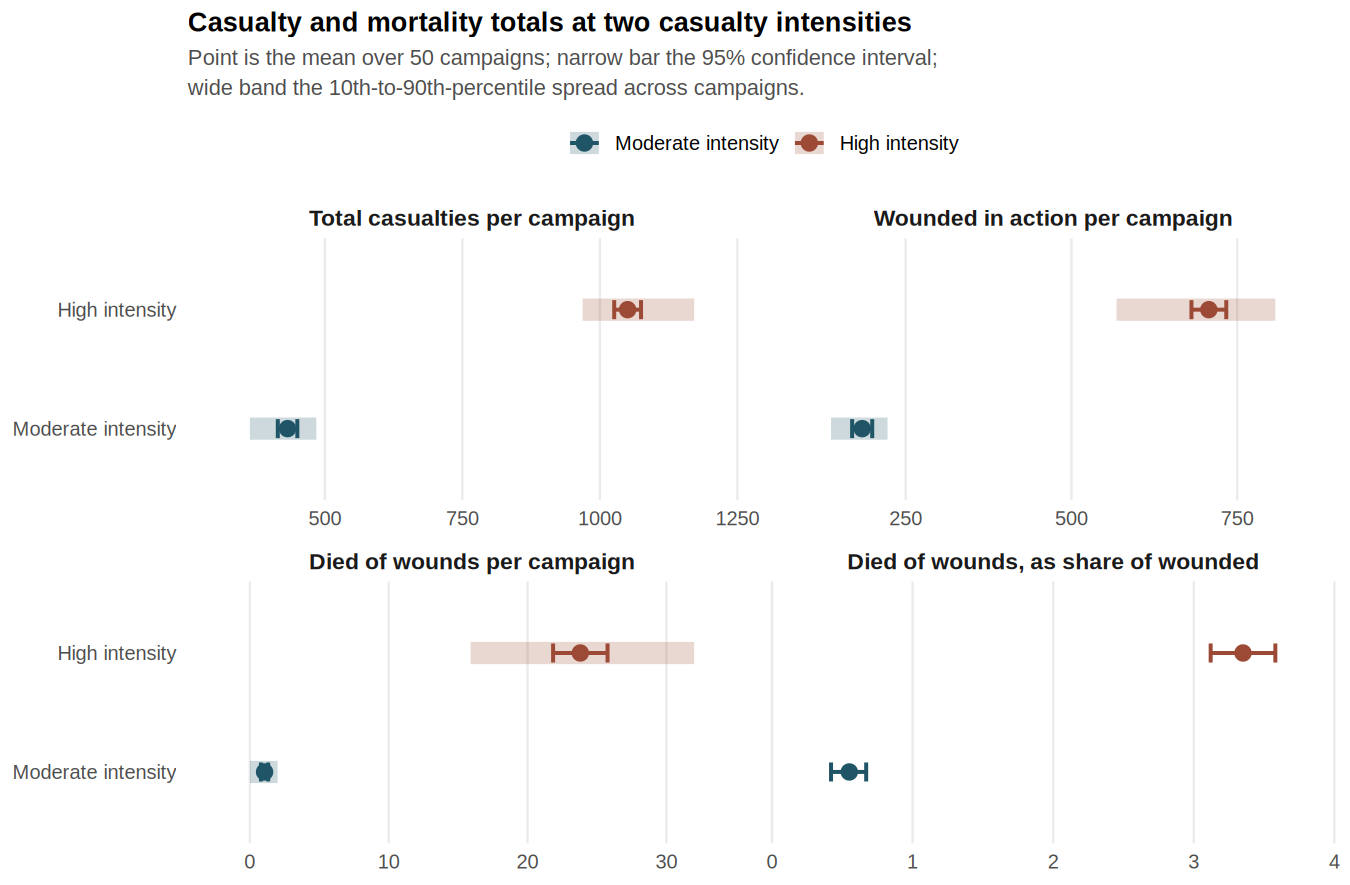
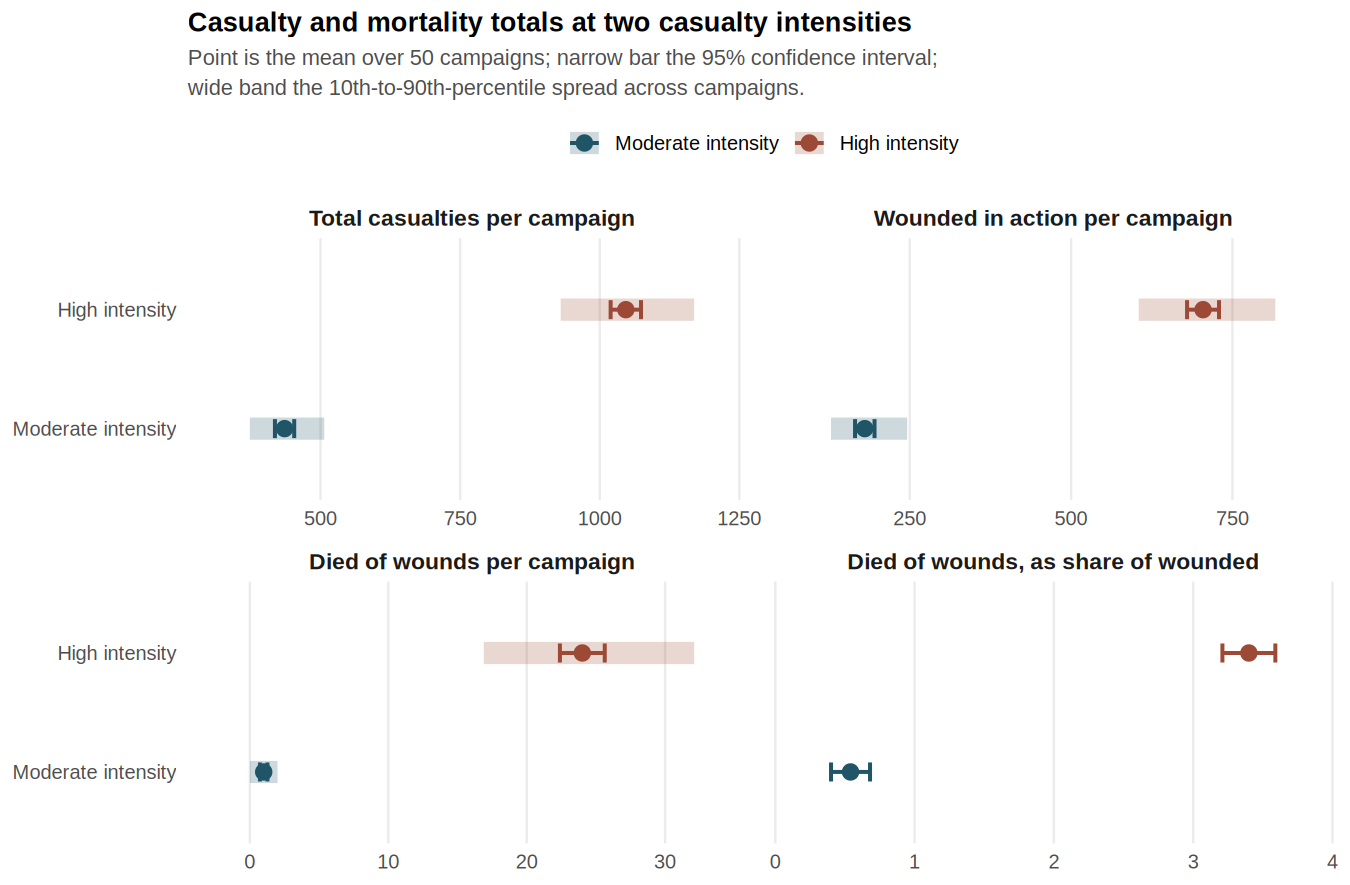
docs(issue-376): re-measure the time series and comparative scenario sections
The clearance percentages, the theatre queue trajectory and the comparative
scenario table brought to the re-measured evidence, with the paper's table
figure re-rendered from the table it illustrates.
scripts/check_time_series_figures.R passes against the marked claims.

The comparison itself barely moves, every figure shifting less than its own
interval, which is the expected result: neither lever touches casualty
generation. The queue figures move more, and one relationship in the
abstract changes shape rather than scale. R2E intensive care and holding
queues now rise about 25-fold and 24-fold from moderate to high intensity
against the 6.4-fold and 5.3-fold measured before, so all three R2E pools
now scale together rather than the theatre queue standing apart from them.
The abstract is rewritten around that ordering.

The theatre queue itself is lower in absolute terms, its median at high
intensity running 23.7, 45.3 and 67.5 casualties on days 9, 19 and 29
against 39.2, 108.8 and 160.5 before, the release shedding cases the theatre
would otherwise have held. It still never turns over: the pool stands empty
for 7% of the campaign and runs unbroken for 25.6 of the 30 days.

Post-operative intensive care degrades earlier. The median campaign at high
intensity now delivers no post-definitive care in an intensive care bed at
all from day 5 onward, against day 19 before.

Refs #376

Claude-Session: https://claude.ai/code/session_01ALedxViE8LvL83ENMPrjn4

diff --git a/docs/Multi_Run_Analysis.md b/docs/Multi_Run_Analysis.md
@@ -18,7 +18,7 @@ A discrete event simulation of a brigade force with aligned health assets was ru
 
 **Results**
 
-Casualty volume rises 2.43-fold from moderate to high intensity, while queues grow disproportionately. The Role 2 Enhanced (R2E) operating theatre queue rises about 26-fold, Role 2 Basic (R2B) holding beds about 5.6-fold, R2E holding beds about 5.3-fold and R2E intensive care about 6.4-fold. Surgical team scheduling is the major system constraint: a casualty occupies a theatre while waiting for a rostered surgical team, and the teams work 12-hour shifts against theatres available around the clock. R2E intensive care runs close to full at both intensities. The theatre queue behaves differently at the two intensities rather than only at a different scale: at high intensity it stands empty for 5% of the campaign, runs unbroken for 26.9 of the 30 days and is still growing when the campaign ends, while at moderate intensity it stands empty for 80% and its longest unbroken run is 3.0 days. The shortfall in intensive care is a standing condition rather than an episodic one, the median campaign at high intensity delivering no post-definitive care in an intensive care bed at all from day 19 onward. The ambulance and truck fleets hold margin at both intensities.
+Casualty volume rises 2.40-fold from moderate to high intensity, while queues grow disproportionately. The Role 2 Enhanced (R2E) operating theatre queue rises about 26-fold, R2E intensive care about 25-fold, R2E holding beds about 24-fold and Role 2 Basic (R2B) holding beds about 5.9-fold. Surgical team scheduling is the major system constraint: a casualty occupies a theatre while waiting for a rostered surgical team, and the teams work 12-hour shifts against theatres available around the clock. R2E intensive care runs close to full at both intensities. The theatre queue behaves differently at the two intensities rather than only at a different scale: at high intensity it stands empty for 7% of the campaign, runs unbroken for 25.6 of the 30 days and is still growing when the campaign ends, while at moderate intensity it stands empty for 81% and its longest unbroken run is 3.0 days. The shortfall in intensive care is a standing condition rather than an episodic one, the median campaign at high intensity delivering no post-definitive care in an intensive care bed at all from day 5 onward. The ambulance and truck fleets hold margin at both intensities.
 
 **Conclusion**
 
@@ -126,7 +126,7 @@ $$\bar{x} \pm t_{0.975,\;n-1}\,\frac{s}{\sqrt{n}}$$
 
 where $n$ is the number of runs, $\bar{x}$ the average across them and $s$ the variation between them. Dividing by the square root of the number of runs is what makes additional runs improve precision: quadrupling the runs halves the width of the interval.
 
-Two points govern how these intervals should be used. First, the interval describes how precisely the average is known, not how much one campaign varies. Several tables also report a 10th-to-90th-percentile range, which is the spread across campaigns, and it is many times the wider of the two. At moderate intensity, for example, the average campaign produces 432.2 casualties and that average is known to within about 18 either way, while the campaigns themselves range from 360 to 489. Sizing against 431 under-provides for the campaign that actually occurs. Second, where two intervals overlap, the simulation has not established a difference between them, and the gap between the two averages should not be acted on as though it were real.
+Two points govern how these intervals should be used. First, the interval describes how precisely the average is known, not how much one campaign varies. Several tables also report a 10th-to-90th-percentile range, which is the spread across campaigns, and it is many times the wider of the two. At moderate intensity, for example, the average campaign produces 435.7 casualties and that average is known to within about 17 either way, while the campaigns themselves range from 374 to 507. Sizing against 436 under-provides for the campaign that actually occurs. Second, where two intervals overlap, the simulation has not established a difference between them, and the gap between the two averages should not be acted on as though it were real.
 
 ### Replication Count and Resolution
 
@@ -166,12 +166,12 @@ Element, bed and transport fleet sizes are parameters a planner using the simula
 
 | Metric | Moderate intensity | High intensity | Ratio |
 |---|---|---|---|
-| Total casualties/run | 432.2 [414.4, 449.9] (p10–p90: 363.6–484.5) | 1,050.4 [1,026.0, 1,074.8] (p10–p90: 968.6–1,171.4) | 2.43× |
-| Wounded in action/run | 184.5 [169.3, 199.6] (p10–p90: 137.5–222.7) | 707.2 [681.0, 733.5] (p10–p90: 568.0–807.5) | 3.83× |
-| Died of wounds/run | 1.06 [0.80, 1.32] (p10–p90: 0–2.0) | 23.80 [21.84, 25.76] (p10–p90: 15.9–32.0) | 22.5× |
-| Died of wounds, as share of wounded | 0.55% [0.42%, 0.67%] | 3.35% [3.12%, 3.58%] | 6.12× |
+| Total casualties/run | 435.7 [418.4, 452.9] (p10–p90: 373.5–506.7) | 1,046.7 [1,019.5, 1,073.9] (p10–p90: 930.0–1,169.1) | 2.40× |
+| Wounded in action/run | 180.3 [165.2, 195.4] (p10–p90: 128.0–246.0) | 704.5 [679.7, 729.2] (p10–p90: 604.8–816.5) | 3.91× |
+| Died of wounds/run | 1.00 [0.73, 1.27] (p10–p90: 0–2.0) | 24.02 [22.40, 25.64] (p10–p90: 16.9–32.1) | 24.0× |
+| Died of wounds, as share of wounded | 0.54% [0.40%, 0.68%] | 3.40% [3.21%, 3.59%] | 6.29× |
 
-Casualty counts vary widely from campaign to campaign, because each arrival stream draws its daily rate from a distribution before placing that day's arrivals within the day [[9]](#references), so the between-day variation FORECAS reports [[3]](#references) reaches the output rather than being averaged away. At moderate intensity the total spans 363.6 to 484.5 casualties between the 10th and 90th percentiles against an average of 432.2. Surge capacity therefore has to be judged against the heavy day rather than the average one.
+Casualty counts vary widely from campaign to campaign, because each arrival stream draws its daily rate from a distribution before placing that day's arrivals within the day [[9]](#references), so the between-day variation FORECAS reports [[3]](#references) reaches the output rather than being averaged away. At moderate intensity the total spans 373.5 to 506.7 casualties between the 10th and 90th percentiles against an average of 435.7. Surge capacity therefore has to be judged against the heavy day rather than the average one.
 
 Deaths of wounds rise 22-fold while casualty volume rises 2.43-fold, but that comparison measures more than the health system, each intensity carrying the survival experience of its own campaign as well as its casualty rate.
 
@@ -216,11 +216,11 @@ The rest of R2E follows the theatres rather than leading them. Intensive care ri
 
 ![Four stacked panels, one per resource pool, plotting queue length against campaign day for the moderate and high casualty intensities, each as a median line with an interquartile band, and each panel annotated with the share of the campaign that pool's queue stood empty at each intensity](../images/queue_length_over_time.png)
 
-<!-- CLEARANCE High intensity|R2E operating theatres|5 -->
-At high intensity the R2E theatre queue stands empty for 5% of the campaign, and its longest unbroken run above zero is 26.9 of the 30 days (interquartile range 23.6 to 28.9). It rises through the whole campaign rather than settling: a median of 39.2 casualties waiting on day 9, 108.8 on day 19 and 160.5 on day 29, still climbing when the run ends. A queue that has not turned over by day 30 has no level to be sized against, and the 30-day horizon is measuring the rate at which the backlog accumulates rather than any equilibrium it reaches, a limitation examined in [Limitations](#limitations).
+<!-- CLEARANCE High intensity|R2E operating theatres|7 -->
+At high intensity the R2E theatre queue stands empty for 7% of the campaign, and its longest unbroken run above zero is 25.6 of the 30 days (interquartile range 22.0 to 28.7). It rises through the whole campaign rather than settling: a median of 23.7 casualties waiting on day 9, 45.3 on day 19 and 67.5 on day 29, still climbing when the run ends. A queue that has not turned over by day 30 has no level to be sized against, and the 30-day horizon is measuring the rate at which the backlog accumulates rather than any equilibrium it reaches, a limitation examined in [Limitations](#limitations).
 
-<!-- CLEARANCE Moderate intensity|R2E operating theatres|80 -->
-At moderate intensity the same pool stands empty for 80% of the campaign, its median is zero throughout, and its longest unbroken busy run is 3.0 days. Casualties still wait, which is the finding recorded above, but the system recovers between the days on which they do.
+<!-- CLEARANCE Moderate intensity|R2E operating theatres|81 -->
+At moderate intensity the same pool stands empty for 81% of the campaign, its median is zero throughout, and its longest unbroken busy run is 3.0 days. Casualties still wait, which is the finding recorded above, but the system recovers between the days on which they do.
 
 The two readings point to different instruments. A queue that clears is a surge problem, answered by capability that can be brought to bear on the heavy day and stood down afterwards. A queue that never clears is an establishment problem, and no amount of surge capability reaches it because there is no trough to surge into. Option 1 is therefore a standing establishment measure at high intensity and a surge measure at moderate, and a force sized for one is not sized for the other.
 
